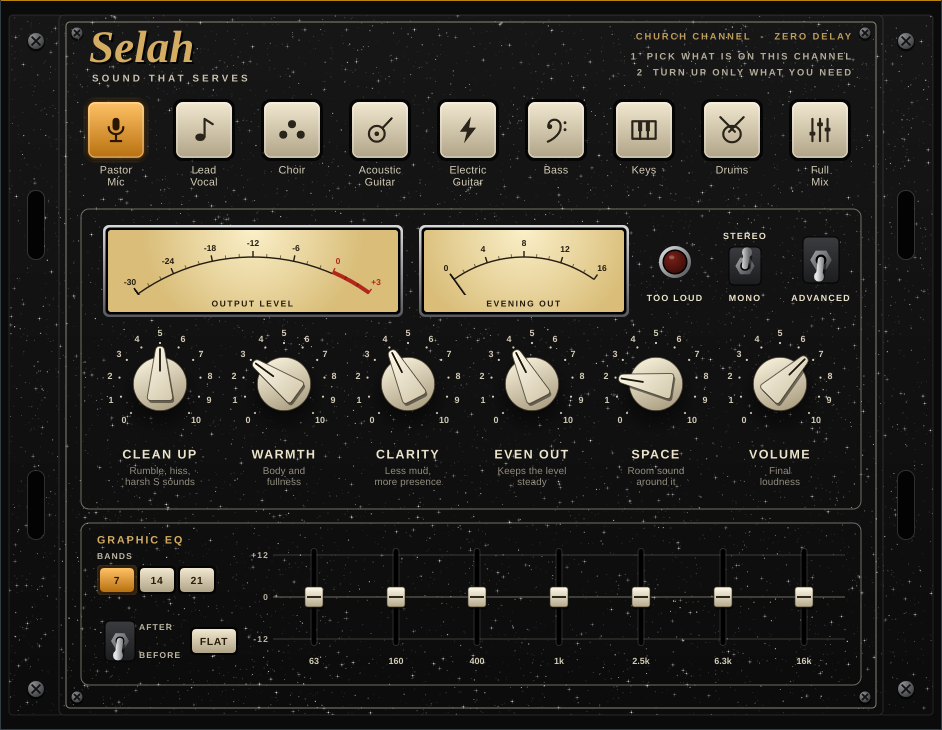
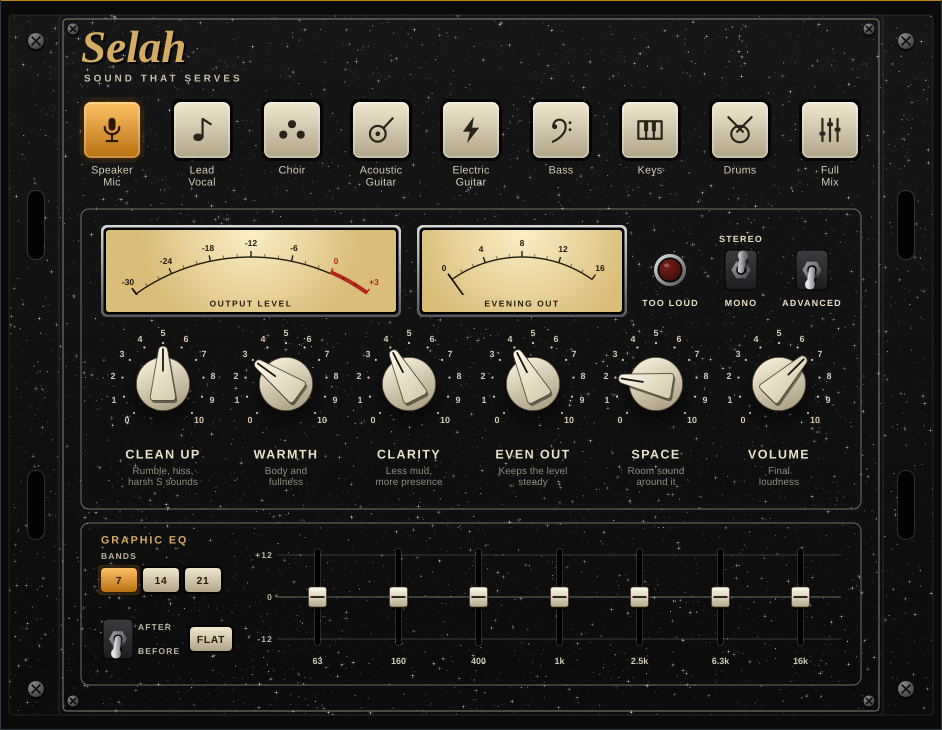
Selah: rename Pastor Mic to Speaker Mic, clear header text, tidy alignment
Claude-Session: https://claude.ai/code/session_01S1GkKnh9gW7VsEYbak3Bcj

diff --git a/Selah/Source/PluginEditor.cpp b/Selah/Source/PluginEditor.cpp
@@ -14,7 +14,7 @@ const char* const knobHints[6] = {
     "Final\nloudness",
 };
 const char* const sourceLabels[sl::kNumSources] = {
-    "Pastor\nMic", "Lead\nVocal", "Choir", "Acoustic\nGuitar", "Electric\nGuitar", "Bass", "Keys", "Drums", "Full\nMix"
+    "Speaker\nMic", "Lead\nVocal", "Choir", "Acoustic\nGuitar", "Electric\nGuitar", "Bass", "Keys", "Drums", "Full\nMix"
 };
 
 void drawScrew (juce::Graphics& g, float cx, float cy, float r)
@@ -531,26 +531,32 @@ void SelahEditor::resized()
     const int H = getHeight();
     face = { 58, 14, kWidth - 116, H - 28 };
 
-    // nine source buttons across the faceplate
-    const int bs = 66;
-    const int pitch = (face.getWidth() - 48 - bs) / (sl::kNumSources - 1);
-    for (int i = 0; i < sourceButtons.size(); ++i)
-        sourceButtons[i]->setBounds (face.getX() + 24 + i * pitch, 96, bs, bs);
-
     inset = { face.getX() + 22, 208, face.getWidth() - 44, 300 };
-    ledBox  = { inset.getX() + 22, inset.getY() + 16, 300, 92 };
-    grBox   = { ledBox.getRight() + 16, ledBox.getY(), 210, 92 };
-    lampBox = { grBox.getRight() + 12, ledBox.getY() + 12, 68, 68 };
-    stereoSwitch.setBounds (lampBox.getRight() + 18, ledBox.getY() + 20, 36, 42);
-    advancedSwitch.setBounds (inset.getRight() - 20 - 40, ledBox.getY() + 10, 40, 50);
 
+    // nine source buttons, outer edges lined up with the panel below
+    const int bs = 66;
+    const float pitch = (float) (inset.getWidth() + 4 - bs) / (float) (sl::kNumSources - 1);
+    for (int i = 0; i < sourceButtons.size(); ++i)
+        sourceButtons[i]->setBounds (inset.getX() - 2 + juce::roundToInt (pitch * (float) i), 96, bs, bs);
+
+    // meter row: two meters, then three equal cells for the lamp and switches
+    const int pad = 20;
+    ledBox = { inset.getX() + pad, inset.getY() + 16, 300, 92 };
+    grBox  = { ledBox.getRight() + 16, ledBox.getY(), 210, 92 };
+    const int cellsX = grBox.getRight() + 8;
+    const int cellW = (inset.getRight() - pad + 8 - cellsX) / 3;
+    lampBox = { cellsX, ledBox.getY() + 8, cellW, 76 };
+    stereoSwitch.setBounds (cellsX + cellW + (cellW - 36) / 2, ledBox.getY() + 23, 36, 44);
+    advancedSwitch.setBounds (cellsX + 2 * cellW + (cellW - 36) / 2, ledBox.getY() + 23, 36, 44);
+
+    // six knobs in six equal columns
     const int kSize = 118;
-    const int kPitch = (inset.getWidth() - 40 - kSize) / 5;
+    const float col = (float) (inset.getWidth() - 2 * pad) / 6.0f;
     for (int i = 0; i < 6; ++i)
-        knobs[i].setBounds (inset.getX() + 20 + i * kPitch, inset.getY() + 116, kSize, kSize);
+        knobs[i].setBounds (inset.getX() + pad + juce::roundToInt (col * ((float) i + 0.5f)) - kSize / 2, inset.getY() + 116, kSize, kSize);
 
     eqPanel = { inset.getX(), inset.getBottom() + 14, inset.getWidth(), kEqHeight };
-    eqArea  = { eqPanel.getX() + 192, eqPanel.getY() + 22, eqPanel.getWidth() - 192 - 16, 104 };
+    eqArea  = { eqPanel.getX() + 196, eqPanel.getY() + 22, eqPanel.getWidth() - 196 - 20, 104 };
     for (int m = 0; m < 3; ++m)
     {
         const int nb = eqSliders[m].size();
@@ -559,9 +565,9 @@ void SelahEditor::resized()
             eqSliders[m][b]->setBounds (eqArea.getX() + juce::roundToInt (slot * (float) b), eqArea.getY(), juce::roundToInt (slot), eqArea.getHeight());
     }
     for (int m = 0; m < 3; ++m)
-        bandKeys[m]->setBounds (eqPanel.getX() + 16 + m * 40, eqPanel.getY() + 42, 40, 30);
-    eqPostSwitch.setBounds (eqPanel.getX() + 22, eqPanel.getY() + 96, 34, 44);
-    flatKey.setBounds (eqPanel.getX() + 108, eqPanel.getY() + 103, 50, 30);
+        bandKeys[m]->setBounds (eqPanel.getX() + 17 + m * 42, eqPanel.getY() + 42, 42, 30);
+    eqPostSwitch.setBounds (eqPanel.getX() + 20, eqPanel.getY() + 94, 34, 44);
+    flatKey.setBounds (eqPanel.getX() + 106, eqPanel.getY() + 101, 48, 30);
 
     drawer = { inset.getX(), eqPanel.getBottom() + 14, inset.getWidth(), kDrawerHeight - 12 };
     techBox = drawer.reduced (18, 12).withTrimmedRight (270);
@@ -612,25 +618,18 @@ void SelahEditor::drawFace (juce::Graphics& g)
     g.setColour (juce::Colours::white.withAlpha (0.12f));
     g.drawRoundedRectangle (f, 5.0f, 1.0f);
     g.setColour (cream.withAlpha (0.55f));
-    g.drawRoundedRectangle (f.reduced (7.0f), 4.0f, 1.0f);
+    g.drawRoundedRectangle (f.reduced (4.0f), 4.0f, 1.0f);
 
     // nameplate
     const juce::Font serif (juce::FontOptions (juce::Font::getDefaultSerifFontName(), 50.0f, juce::Font::bold | juce::Font::italic));
     g.setFont (serif);
     g.setColour (juce::Colours::black.withAlpha (0.8f));
-    g.drawText ("Selah", face.getX() + 32, 22, 300, 52, juce::Justification::centredLeft);
+    g.drawText ("Selah", inset.getX() + 2, 22, 300, 52, juce::Justification::centredLeft);
     g.setColour (gold);
-    g.drawText ("Selah", face.getX() + 30, 20, 300, 52, juce::Justification::centredLeft);
+    g.drawText ("Selah", inset.getX(), 20, 300, 52, juce::Justification::centredLeft);
     g.setFont (font (11.0f, true, 0.28f));
     g.setColour (cream.withAlpha (0.85f));
-    g.drawText ("SOUND THAT SERVES", face.getX() + 33, 70, 300, 14, juce::Justification::centredLeft);
-
-    g.setFont (font (10.5f, true, 0.18f));
-    g.setColour (gold.withAlpha (0.9f));
-    g.drawText ("CHURCH CHANNEL  -  ZERO DELAY", face.getRight() - 340, 28, 310, 14, juce::Justification::centredRight);
-    g.setColour (cream.withAlpha (0.75f));
-    g.drawText ("1  PICK WHAT IS ON THIS CHANNEL", face.getRight() - 340, 48, 310, 14, juce::Justification::centredRight);
-    g.drawText ("2  TURN UP ONLY WHAT YOU NEED", face.getRight() - 340, 64, 310, 14, juce::Justification::centredRight);
+    g.drawText ("SOUND THAT SERVES", inset.getX() + 3, 70, 300, 14, juce::Justification::centredLeft);
 
     // source labels
     g.setFont (font (12.0f, false, 0.02f));
@@ -666,21 +665,21 @@ void SelahEditor::drawFace (juce::Graphics& g)
 
     g.setFont (font (10.0f, true, 0.12f));
     g.setColour (cream);
-    g.drawText ("TOO LOUD", lampBox.getX() - 6, lampBox.getBottom() - 13, lampBox.getWidth() + 12, 12, juce::Justification::centred);
-    g.drawText ("ADVANCED", advancedSwitch.getX() - 20, lampBox.getBottom() - 13, advancedSwitch.getWidth() + 40, 12, juce::Justification::centred);
+    g.drawText ("TOO LOUD", lampBox.getX() - 6, lampBox.getBottom() - 12, lampBox.getWidth() + 12, 12, juce::Justification::centred);
+    g.drawText ("ADVANCED", advancedSwitch.getX() - 20, lampBox.getBottom() - 12, advancedSwitch.getWidth() + 40, 12, juce::Justification::centred);
     g.drawText ("STEREO", stereoSwitch.getX() - 20, stereoSwitch.getY() - 15, stereoSwitch.getWidth() + 40, 12, juce::Justification::centred);
-    g.drawText ("MONO", stereoSwitch.getX() - 20, lampBox.getBottom() - 13, stereoSwitch.getWidth() + 40, 12, juce::Justification::centred);
+    g.drawText ("MONO", stereoSwitch.getX() - 20, lampBox.getBottom() - 12, stereoSwitch.getWidth() + 40, 12, juce::Justification::centred);
 
     // graphic EQ section
     outline (eqPanel);
     g.setFont (font (12.0f, true, 0.16f));
     g.setColour (gold);
-    g.drawText ("GRAPHIC EQ", eqPanel.getX() + 16, eqPanel.getY() + 10, 140, 14, juce::Justification::centredLeft);
+    g.drawText ("GRAPHIC EQ", eqPanel.getX() + 20, eqPanel.getY() + 10, 140, 14, juce::Justification::centredLeft);
     g.setFont (font (9.5f, true, 0.12f));
     g.setColour (cream.withAlpha (0.8f));
-    g.drawText ("BANDS", eqPanel.getX() + 16, eqPanel.getY() + 27, 120, 12, juce::Justification::centredLeft);
-    g.drawText ("AFTER", eqPostSwitch.getRight() + 2, eqPostSwitch.getY() + 2, 50, 12, juce::Justification::centredLeft);
-    g.drawText ("BEFORE", eqPostSwitch.getRight() + 2, eqPostSwitch.getBottom() - 14, 50, 12, juce::Justification::centredLeft);
+    g.drawText ("BANDS", eqPanel.getX() + 20, eqPanel.getY() + 27, 120, 12, juce::Justification::centredLeft);
+    g.drawText ("AFTER", eqPostSwitch.getRight() + 3, eqPostSwitch.getY() + 4, 50, 12, juce::Justification::centredLeft);
+    g.drawText ("BEFORE", eqPostSwitch.getRight() + 3, eqPostSwitch.getBottom() - 16, 50, 12, juce::Justification::centredLeft);
     {
         const float top = (float) eqArea.getY() + 10.0f, bottom = (float) eqArea.getBottom() - 10.0f;   // matches the fader travel
         const char* const marks[3] = { "+12", "0", "-12" };
@@ -703,7 +702,7 @@ void SelahEditor::drawFace (juce::Graphics& g)
 
     // jewel lamp bezel
     {
-        const auto c = lampBox.toFloat().withTrimmedBottom (18.0f).getCentre();
+        const auto c = juce::Point<float> ((float) lampBox.getCentreX(), (float) stereoSwitch.getBounds().getCentreY());
         const float r = 16.0f;
         g.setGradientFill (juce::ColourGradient (juce::Colour (0xffe6e7e9), c.x - r, c.y - r, juce::Colour (0xff4a4c4f), c.x + r, c.y + r, false));
         g.fillEllipse (c.x - r, c.y - r, r * 2.0f, r * 2.0f);
@@ -712,10 +711,10 @@ void SelahEditor::drawFace (juce::Graphics& g)
     }
 
     // faceplate screws
-    drawScrew (g, f.getX() + 18.0f, f.getY() + 18.0f, 5.5f);
-    drawScrew (g, f.getRight() - 18.0f, f.getY() + 18.0f, 5.5f);
-    drawScrew (g, f.getX() + 18.0f, f.getBottom() - 18.0f, 5.5f);
-    drawScrew (g, f.getRight() - 18.0f, f.getBottom() - 18.0f, 5.5f);
+    drawScrew (g, f.getX() + 14.0f, f.getY() + 14.0f, 5.5f);
+    drawScrew (g, f.getRight() - 14.0f, f.getY() + 14.0f, 5.5f);
+    drawScrew (g, f.getX() + 14.0f, f.getBottom() - 14.0f, 5.5f);
+    drawScrew (g, f.getRight() - 14.0f, f.getBottom() - 14.0f, 5.5f);
 
     if (advanced)
     {
@@ -738,7 +737,7 @@ void SelahEditor::paint (juce::Graphics& g)
     // TOO LOUD jewel
     {
         const bool hot = limiting > 0.05f;
-        const auto c = lampBox.toFloat().withTrimmedBottom (18.0f).getCentre();
+        const auto c = juce::Point<float> ((float) lampBox.getCentreX(), (float) stereoSwitch.getBounds().getCentreY());
         const float r = 11.0f;
         if (hot)
         {

diff --git a/Selah/Source/PluginProcessor.cpp b/Selah/Source/PluginProcessor.cpp
@@ -16,7 +16,7 @@ juce::AudioProcessorValueTreeState::ParameterLayout SelahProcessor::createLayout
     juce::AudioProcessorValueTreeState::ParameterLayout l;
     const juce::NormalisableRange<float> unit (0.0f, 1.0f, 0.001f);
 
-    juce::StringArray sources { "Pastor", "Lead Vocal", "Choir", "Acoustic Guitar", "Electric Guitar", "Bass", "Keys", "Drums", "Full Mix" };
+    juce::StringArray sources { "Speaker Mic", "Lead Vocal", "Choir", "Acoustic Guitar", "Electric Guitar", "Bass", "Keys", "Drums", "Full Mix" };
     l.add (std::make_unique<juce::AudioParameterChoice> (juce::ParameterID { "source", 1 }, "Source", sources, 0));
     l.add (std::make_unique<APF> (juce::ParameterID { "cleanup", 1 }, "Clean Up", unit, 0.5f, tenAttr()));
     l.add (std::make_unique<APF> (juce::ParameterID { "warmth", 1 }, "Warmth", unit, 0.3f, tenAttr()));

diff --git a/Selah/Source/ChannelEngine.h b/Selah/Source/ChannelEngine.h
@@ -12,7 +12,7 @@ enum Source { Pastor = 0, LeadVocal, Choir, Acoustic, Electric, Bass, Keys, Drum
 
 inline const char* sourceName (int s)
 {
-    static const char* n[] = { "PASTOR", "LEAD VOCAL", "CHOIR", "ACOUSTIC", "ELECTRIC", "BASS", "KEYS", "DRUMS", "FULL MIX" };
+    static const char* n[] = { "SPEAKER", "LEAD VOCAL", "CHOIR", "ACOUSTIC", "ELECTRIC", "BASS", "KEYS", "DRUMS", "FULL MIX" };
     return n[std::clamp (s, 0, kNumSources - 1)];
 }
 

diff --git a/README.md b/README.md
@@ -23,7 +23,7 @@ Church channel strip (working title). Zero added delay, so it works live in the 
 
 ![Selah interface](docs/selah-ui.png)
 
-1. Pick what is on the channel: Pastor Mic, Lead Vocal, Choir, Acoustic Guitar, Electric Guitar, Bass, Keys, Drums, Full Mix.
+1. Pick what is on the channel: Speaker Mic, Lead Vocal, Choir, Acoustic Guitar, Electric Guitar, Bass, Keys, Drums, Full Mix.
 2. Turn up only what you need. Every knob all the way down is off.
 
 | Knob | What it does | Under the hood |
